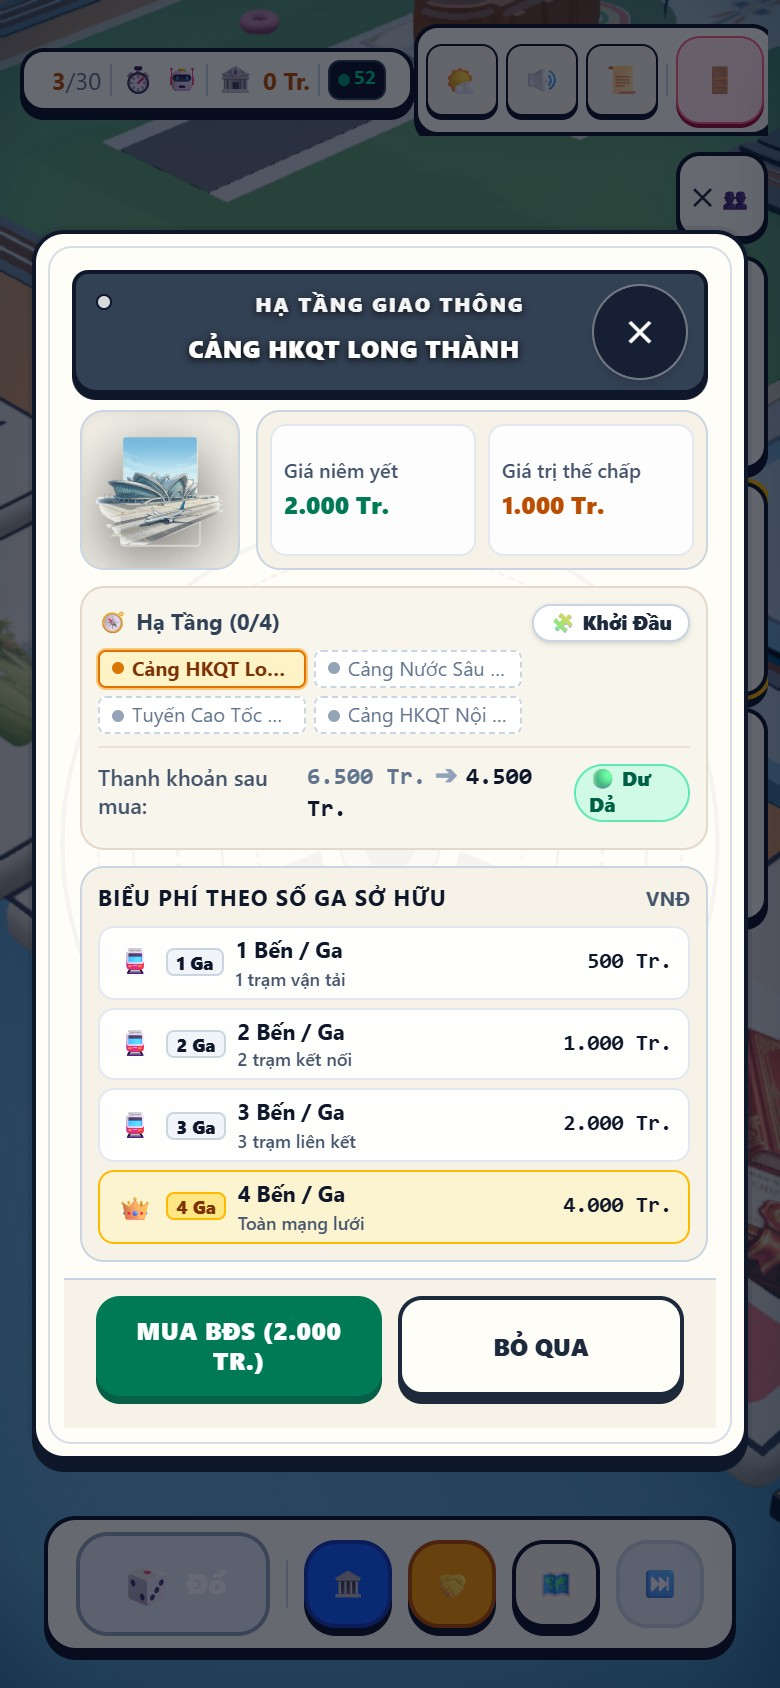
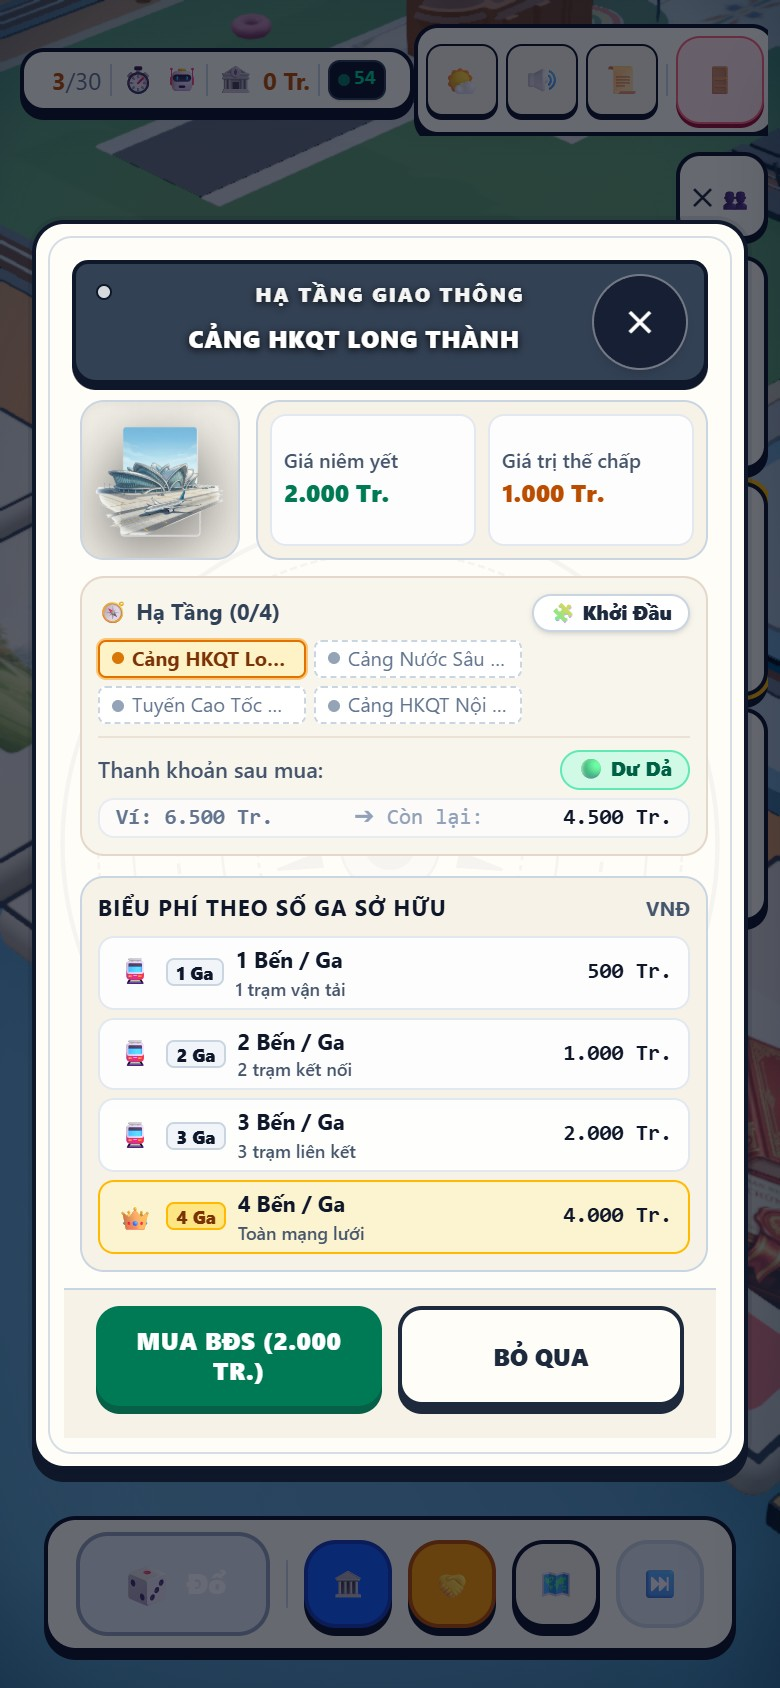
Ui refine

diff --git a/src/client/ui/modals/title_deed_modal.tsx b/src/client/ui/modals/title_deed_modal.tsx
@@ -140,7 +140,7 @@ export function TitleDeedModal({
 
   return (
     <div
-      className="relative w-full max-w-md max-h-[90dvh] md:max-h-[85vh] bg-[#FFFDF8] border-2 border-slate-900 rounded-2xl shadow-[0_6px_0_0_#0f172a] ring-2 ring-slate-900/10 overflow-hidden flex flex-col pointer-events-auto animate-in zoom-in-90 fade-in duration-200 ease-out select-none p-3.5 sm:p-5 text-slate-900"
+      className="relative w-full max-w-md md:max-w-2xl max-h-[90dvh] md:max-h-[85vh] bg-[#FFFDF8] border-2 border-slate-900 rounded-2xl shadow-[0_6px_0_0_#0f172a] ring-2 ring-slate-900/10 overflow-hidden flex flex-col pointer-events-auto animate-in zoom-in-90 fade-in duration-200 ease-out select-none p-3.5 sm:p-5 text-slate-900"
       data-testid="title-deed-modal"
     >
       {/* Khung viền chỉ mực kép bên trong */}
@@ -234,61 +234,69 @@ export function TitleDeedModal({
       ))}
 
       {/* Thân thẻ cuộn mượt mà */}
-      <div className="relative z-10 flex-1 min-h-0 overflow-y-auto pr-1 p-2 sm:p-4 space-y-2 sm:space-y-3 text-xs md:text-sm text-slate-900">
-        {/* Hàng Hero Media & Giá niêm yết: Đặt ngang trên Mobile để tiết kiệm tối đa không gian thẳng đứng */}
-        <div className="flex flex-row gap-2 sm:gap-2.5 items-stretch">
-          <div className="w-20 h-20 sm:w-28 sm:h-28 shrink-0">
-            <TitleDeedArtShowcase
-              tileAssetUrl={tileAssetUrl}
-              deedName={deed.name}
-              ribbonColor={ribbonColor}
+      <div className="relative z-10 flex-1 min-h-0 overflow-y-auto pr-1 p-2 sm:p-3 text-xs md:text-sm text-slate-900">
+        <div className="flex flex-col md:grid md:grid-cols-2 gap-2.5 sm:gap-3.5 items-start">
+          {/* Cột 1 (Desktop) / Phần trên (Mobile): Ảnh BĐS, Giá niêm yết, Thế chấp, Radar Quy Hoạch */}
+          <div className="w-full space-y-2 sm:space-y-2.5">
+            {/* Hàng Hero: Ảnh BĐS + Khối giá niêm yết & Giá trị thế chấp */}
+            <div className="flex flex-row gap-2 sm:gap-2.5 items-stretch">
+              <div className="w-20 h-20 shrink-0">
+                <TitleDeedArtShowcase
+                  tileAssetUrl={tileAssetUrl}
+                  deedName={deed.name}
+                  ribbonColor={ribbonColor}
+                  isRailroad={isRailroad}
+                  isUtility={isUtility}
+                  showImage={showImage}
+                  onImageError={() => setImageError(true)}
+                  className="w-full h-full"
+                />
+              </div>
+
+              {/* Khối giá niêm yết & giá thế chấp */}
+              <div className="flex-1 grid grid-cols-2 gap-1.5 sm:gap-2 bg-[#F7F2E7] p-1.5 sm:p-2 rounded-xl border border-slate-300">
+                <div className="bg-white/90 p-1.5 sm:p-2 rounded-lg border border-slate-200 flex flex-col justify-center">
+                  <span className="text-slate-600 block text-[10px] sm:text-[11px] font-medium leading-none mb-1">Giá niêm yết</span>
+                  <span className="text-emerald-700 font-extrabold text-xs sm:text-sm leading-tight">{formatCurrency(deed.price)}</span>
+                </div>
+                <div className="bg-white/90 p-1.5 sm:p-2 rounded-lg border border-slate-200 flex flex-col justify-center">
+                  <span className="text-slate-600 block text-[10px] sm:text-[11px] font-medium leading-none mb-1">Giá trị thế chấp</span>
+                  <span className="text-amber-700 font-extrabold text-xs sm:text-sm leading-tight">{formatCurrency(deed.mortgageValue)}</span>
+                </div>
+              </div>
+            </div>
+
+            {canBuy && !isOwned && (
+              <PurchaseDecisionCard
+                cellIndex={cellIndex}
+                deedPrice={deed.price}
+                buyerBalance={buyerBalance}
+                buyerId={buyerId}
+                allPlayers={allPlayers}
+              />
+            )}
+
+            {isMortgaged && (
+              <div className="p-2 rounded-xl bg-rose-100 border border-rose-400 text-rose-800 text-xs text-center font-bold flex items-center justify-center gap-1.5 shadow-sm">
+                <span aria-hidden="true">⚠</span>
+                <span>Tài sản đang thế chấp — Tạm ngưng thu phí thuê</span>
+              </div>
+            )}
+          </div>
+
+          {/* Cột 2 (Desktop) / Phần dưới (Mobile): Biểu phí cước dừng chân / ga */}
+          <div className="w-full">
+            <TitleDeedRentTable
               isRailroad={isRailroad}
               isUtility={isUtility}
-              showImage={showImage}
-              onImageError={() => setImageError(true)}
-              className="w-full h-full"
+              rents={deed.rents}
+              upgradeCosts={deed.upgradeCosts}
+              hasMonopoly={hasMonopoly}
+              currentLevel={currentLevel}
+              isOwner={isOwner}
             />
           </div>
-
-          {/* Khối giá niêm yết & giá thế chấp */}
-          <div className="flex-1 grid grid-cols-2 gap-1.5 sm:gap-2.5 bg-[#F7F2E7] p-1.5 sm:p-2.5 rounded-xl border border-slate-300">
-            <div className="bg-white/90 p-1.5 sm:p-2 rounded-lg border border-slate-200 flex flex-col justify-center">
-              <span className="text-slate-600 block text-[10px] sm:text-[11px] font-medium leading-none mb-1">Giá niêm yết</span>
-              <span className="text-emerald-700 font-extrabold text-xs sm:text-sm">{formatCurrency(deed.price)}</span>
-            </div>
-            <div className="bg-white/90 p-1.5 sm:p-2 rounded-lg border border-slate-200 flex flex-col justify-center">
-              <span className="text-slate-600 block text-[10px] sm:text-[11px] font-medium leading-none mb-1">Giá trị thế chấp</span>
-              <span className="text-amber-700 font-extrabold text-xs sm:text-sm">{formatCurrency(deed.mortgageValue)}</span>
-            </div>
-          </div>
         </div>
-
-        {canBuy && !isOwned && (
-          <PurchaseDecisionCard
-            cellIndex={cellIndex}
-            deedPrice={deed.price}
-            buyerBalance={buyerBalance}
-            buyerId={buyerId}
-            allPlayers={allPlayers}
-          />
-        )}
-
-        {isMortgaged && (
-          <div className="p-2 rounded-xl bg-rose-100 border border-rose-400 text-rose-800 text-xs text-center font-bold flex items-center justify-center gap-1.5 shadow-sm">
-            <span aria-hidden="true">⚠</span>
-            <span>Tài sản đang thế chấp — Tạm ngưng thu phí thuê</span>
-          </div>
-        )}
-
-        <TitleDeedRentTable
-          isRailroad={isRailroad}
-          isUtility={isUtility}
-          rents={deed.rents}
-          upgradeCosts={deed.upgradeCosts}
-          hasMonopoly={hasMonopoly}
-          currentLevel={currentLevel}
-          isOwner={isOwner}
-        />
       </div>
 
       {/* Nút hành động 3D tactile vật lý */}

diff --git a/src/client/ui/modals/purchase_decision_card.tsx b/src/client/ui/modals/purchase_decision_card.tsx
@@ -46,7 +46,7 @@ export function PurchaseDecisionCard({
             <span>🧭</span>
             <span>{radar.isRailroad ? 'Hạ Tầng' : radar.isUtility ? 'Tiện Ích' : 'Bộ Màu Quy Hoạch'} ({radar.ownedCount}/{radar.totalCells})</span>
           </span>
-          <span className="px-2 py-0.5 rounded-full font-black text-[10px] bg-white border border-slate-300 shadow-sm text-slate-800" data-testid="radar-strategy-badge">
+          <span className="px-2 py-0.5 rounded-full font-black text-[10px] bg-white border border-slate-300 shadow-sm text-slate-800 whitespace-nowrap shrink-0" data-testid="radar-strategy-badge">
             {radar.badge}
           </span>
         </div>
@@ -73,24 +73,24 @@ export function PurchaseDecisionCard({
       </div>
 
       {/* Khối 2: Đệm tiền mặt & An toàn thanh khoản */}
-      <div className="pt-1.5 sm:pt-2 border-t border-amber-900/10 space-y-1 sm:space-y-1.5">
-        <div className="flex items-center justify-between text-[11px]">
-          <span className="text-slate-600 font-medium">Thanh khoản sau mua:</span>
-          <div className="flex items-center gap-1.5">
-            <span className="text-xs font-mono font-bold">
-              <span className="text-slate-500">{formatCurrency(effectiveBalance)}</span>
-              <span className="text-slate-400 mx-1">➔</span>
-              <span className={cashBuffer.tone === 'rose' ? 'text-rose-700' : 'text-slate-900'}>{formatCurrency(cashBuffer.balanceAfterBuy)}</span>
-            </span>
-            <span className={`px-1.5 py-0.2 rounded-full text-[10px] font-black border ${TONE_CLASSES[cashBuffer.tone]}`} data-testid="cash-buffer-badge">
-              {cashBuffer.tone === 'emerald' ? '🟢' : cashBuffer.tone === 'amber' ? '🟡' : '🔴'} {cashBuffer.label}
-            </span>
-          </div>
+      <div className="pt-1.5 border-t border-amber-900/10 space-y-1">
+        <div className="flex items-center justify-between gap-1 text-[11px]">
+          <span className="text-slate-600 font-medium whitespace-nowrap">Thanh khoản sau mua:</span>
+          <span
+            className={`px-2 py-0.5 rounded-full text-[10px] font-black border whitespace-nowrap shrink-0 ${TONE_CLASSES[cashBuffer.tone]}`}
+            data-testid="cash-buffer-badge"
+          >
+            {cashBuffer.tone === 'emerald' ? '🟢' : cashBuffer.tone === 'amber' ? '🟡' : '🔴'} {cashBuffer.label}
+          </span>
         </div>
-        <p className="text-[10px] text-slate-500 italic leading-tight hidden sm:block">{cashBuffer.description}</p>
-        <div className="hidden sm:flex items-center justify-between text-[10px] text-amber-900/80 bg-amber-500/10 px-2 py-0.5 rounded-md border border-amber-600/20">
-          <span>🛡 Phao thế chấp 50%:</span>
-          <span className="font-bold font-mono">+{formatCurrency(cashBuffer.mortgageValue)}</span>
+        <div className="flex items-center justify-between text-xs font-mono font-bold px-2 py-0.5 rounded-lg bg-white/70 border border-slate-200/80">
+          <span className="text-slate-500 whitespace-nowrap text-[11px] sm:text-xs">
+            Ví: {formatCurrency(effectiveBalance)}
+          </span>
+          <span className="text-slate-400 font-normal text-[11px]">➔ Còn lại:</span>
+          <span className={`whitespace-nowrap text-[11px] sm:text-xs ${cashBuffer.tone === 'rose' ? 'text-rose-700 font-black' : 'text-slate-900 font-black'}`}>
+            {formatCurrency(cashBuffer.balanceAfterBuy)}
+          </span>
         </div>
       </div>
     </div>

diff --git a/scripts/capture_auction_verification.ts b/scripts/capture_auction_verification.ts
@@ -133,6 +133,16 @@ class VerificationCapturer {
     return this.sendCmd('Runtime.evaluate', { expression: code, returnByValue: true });
   }
 
+  async setViewport(width: number, height: number, mobile: boolean): Promise<void> {
+    await this.sendCmd('Emulation.setDeviceMetricsOverride', {
+      width,
+      height,
+      deviceScaleFactor: mobile ? 2 : 1,
+      mobile,
+    });
+    await sleep(1000);
+  }
+
   async takeScreenshot(filename: string): Promise<string> {
     const shot = await this.sendCmd('Page.captureScreenshot', { format: 'jpeg', quality: 90 });
     const buf = Buffer.from(shot.data, 'base64');
@@ -297,17 +307,17 @@ async function main() {
     await capturer.takeScreenshot('title_deed_modal_verified.jpg');
     await capturer.takeScreenshot('title_deed_modal_long_thanh_verified.jpg');
 
-    // SHOT 4: Title Deed Modal for standard city property (cellIndex: 16 - Bình Định, C0..C3)
-    console.log('[Verification] Opening Title Deed Modal (Bình Định - Cell 16)...');
+    // SHOT 4: Title Deed Modal for Đà Nẵng (cellIndex: 19 - exact user screenshot) on Mobile 390x844
+    console.log('[Verification] Opening Title Deed Modal (Đà Nẵng - Cell 19 on Mobile)...');
     await capturer.eval(`
       (() => {
         if (!window.__gameStore) return;
         const game = window.__gameStore.getState();
         game.openModal('deed', {
-          cellIndex: 16, // Bình Định (Đô thị C0..C3)
+          cellIndex: 19, // Đà Nẵng (Hải Châu - Sơn Trà)
           canBuy: true,
           isOwned: false,
-          buyerBalance: 6500,
+          buyerBalance: 16500,
           buyerId: 'p1',
           allPlayers: game.playersInfo,
         });
@@ -315,8 +325,16 @@ async function main() {
     `);
     await sleep(1000);
 
-    console.log('[Verification] Capturing Shot 4: Title Deed Modal (Standard Property)...');
-    await capturer.takeScreenshot('title_deed_modal_property_verified.jpg');
+    console.log('[Verification] Capturing Shot 4: Title Deed Modal (Đà Nẵng Mobile)...');
+    await capturer.takeScreenshot('title_deed_modal_da_nang_mobile_verified.jpg');
+
+    // SHOT 5: Switch to Desktop 1280x800 for Đà Nẵng (Cell 19) to verify 2-column zero-scroll layout
+    console.log('[Verification] Switching viewport to Desktop 1280x800...');
+    await capturer.setViewport(1280, 800, false);
+    await sleep(1000);
+
+    console.log('[Verification] Capturing Shot 5: Title Deed Modal (Đà Nẵng Desktop)...');
+    await capturer.takeScreenshot('title_deed_modal_da_nang_desktop_verified.jpg');
 
     console.log('[Verification] All screenshots captured successfully!');
   } catch (err) {

diff --git a/tests/client/auction_and_title_deed_mobile_ergonomics.test.ts b/tests/client/auction_and_title_deed_mobile_ergonomics.test.ts
@@ -141,12 +141,22 @@ describe('[TC-AUC-ERG/MSS] Mobile Ergonomics & Visual Polish for Auction and Tit
     expect(html).toContain('flex flex-row gap-2');
     expect(html).toContain('w-20 h-20');
 
-    // 2. Biểu phí theo số ga sở hữu sử dụng compact padding px-2 py-1
+    // 2. Bố cục 2 cột rộng rãi trên Desktop loại bỏ hoàn toàn thanh cuộn
+    expect(html).toContain('md:max-w-2xl');
+    expect(html).toContain('md:grid md:grid-cols-2');
+
+    // 3. Biểu phí theo số ga sở hữu sử dụng compact padding px-2 py-1
     expect(html).toContain('px-2 py-1');
 
-    // 3. Toàn bộ 4 ga và nút mua hiển thị trọn vẹn
+    // 4. Toàn bộ 4 ga và nút mua hiển thị trọn vẹn
     expect(html).toContain('1 Bến / Ga');
     expect(html).toContain('4 Bến / Ga');
     expect(html).toContain('Mua BĐS (2.000 Tr.)');
+
+    // 5. Thanh khoản sau mua và badge không bị ngắt dòng (whitespace-nowrap)
+    expect(html).toContain('Thanh khoản sau mua:</span>');
+    expect(html).toContain('whitespace-nowrap');
+    expect(html).toContain('Ví:');
+    expect(html).toContain('➔ Còn lại:');
   });
 });

diff --git a/docs/reports/uat/AUCTION_AND_DEED_VERIFICATION_REPORT.md b/docs/reports/uat/AUCTION_AND_DEED_VERIFICATION_REPORT.md
@@ -37,10 +37,19 @@
   - `Biểu Phí Theo Số Ga Sở Hữu`: Cả 4 cấp bậc ga (`1 Ga: 500 Tr.`, `2 Ga: 1.000 Tr.`, `3 Ga: 2.000 Tr.`, `4 Ga: 4.000 Tr.`) hiển thị đầy đủ, sắc nét, không bị che khuất một phần nào.
   - `Nút Hành Động`: Nằm trọn vẹn trên màn hình cùng toàn bộ thông tin trên, người chơi KHÔNG CẦN CUỘN TAY một pixel nào để ra quyết định mua.
 
-### Ảnh 4: Trang Mua Đất / Sổ Đỏ — Đô Thị Thành Phố (Bình Định C0..C3) [Zero-Scroll Tabletop]
-- **Đường dẫn**: [`title_deed_modal_property_verified.jpg`](file:///c:/Users/HP/Documents/GitHub/vtcoon/docs/reports/uat/screenshots/imp193/title_deed_modal_property_verified.jpg)
+### Ảnh 4: Trang Mua Đất / Sổ Đỏ — Đà Nẵng (Case Thực Tế Của Bạn Trên Desktop 1280x800) [Zero-Scroll 2 Cột]
+- **Đường dẫn**: [`title_deed_modal_da_nang_desktop_verified.jpg`](file:///c:/Users/HP/Documents/GitHub/vtcoon/docs/reports/uat/screenshots/imp193/title_deed_modal_da_nang_desktop_verified.jpg)
+- **Kiểm tra công thái học (Triệt tiêu 100% thanh cuộn trên Desktop)**:
+  - `Bố cục 2 cột (md:grid md:grid-cols-2)`: Cột 1 chứa [Ảnh BĐS + Giá niêm yết + Thế chấp + Thẻ quy hoạch], Cột 2 chứa [Biểu phí dừng chân C0..C3].
+  - Chiều cao modal chỉ còn ~380px, chiếm chưa tới 50% chiều cao màn hình desktop.
+  - **Thanh cuộn xám biến mất hoàn toàn** (Zero Scrollbar), C3 Quần thể Resort/TTTM hiển thị nguyên vẹn kèm phí nâng cấp.
+
+### Ảnh 5: Trang Mua Đất / Sổ Đỏ — Đà Nẵng (Mobile 390x844) [Zero-Scroll 1 Cột Tinh Gọn]
+- **Đường dẫn**: [`title_deed_modal_da_nang_mobile_verified.jpg`](file:///c:/Users/HP/Documents/GitHub/vtcoon/docs/reports/uat/screenshots/imp193/title_deed_modal_da_nang_mobile_verified.jpg)
 - **Kiểm tra công thái học**:
-  - Tương tự ô hạ tầng, thẻ đô thị với 4 cấp bậc cước (`C0 Đất Nền: 180 Tr.`, `C1 Nhà Phố: 540 Tr.`, `C2 Khách Sạn: 1.440 Tr.`, `C3 Quần Thể Resort: 4.500 Tr.`) cùng tiến độ bộ màu quy hoạch (1/3 ➔ 2/3) lọt 100% Above-The-Fold trên mobile 390px.
+  - **Khắc phục triệt để lỗi ngắt dòng (Text-Wrapping)**: Tách dòng tiêu đề `Thanh khoản sau mua:` đi kèm huy hiệu `[🟢 Dư Dả]` (`whitespace-nowrap shrink-0`) riêng biệt với dòng số tiền `Ví: 6.500 Tr. ➔ Còn lại: 4.500 Tr.` dạng pill nền trắng dịu mắt.
+  - Loại bỏ hoàn toàn hiện tượng chữ `mua:` hoặc `Tr.` bị rớt dòng đơn độc.
+  - Cả 4 cấp bậc cước C0..C3 lọt 100% trong khung nhìn trên mobile mà không chạm đáy hay che lấp nút Mua/Bỏ Qua.
 
 ---
 
@@ -51,5 +60,6 @@
 - `vitest run tests/client/phase3_visual_polish.test.ts`: **21/21 tests passed**.
 - `vitest run tests/client/property_purchase_decision.test.ts`: **16/16 tests passed**.
 - `vitest run tests/client/auction_modal*.test.ts`: **100% contract tests passed**.
+
 
 
